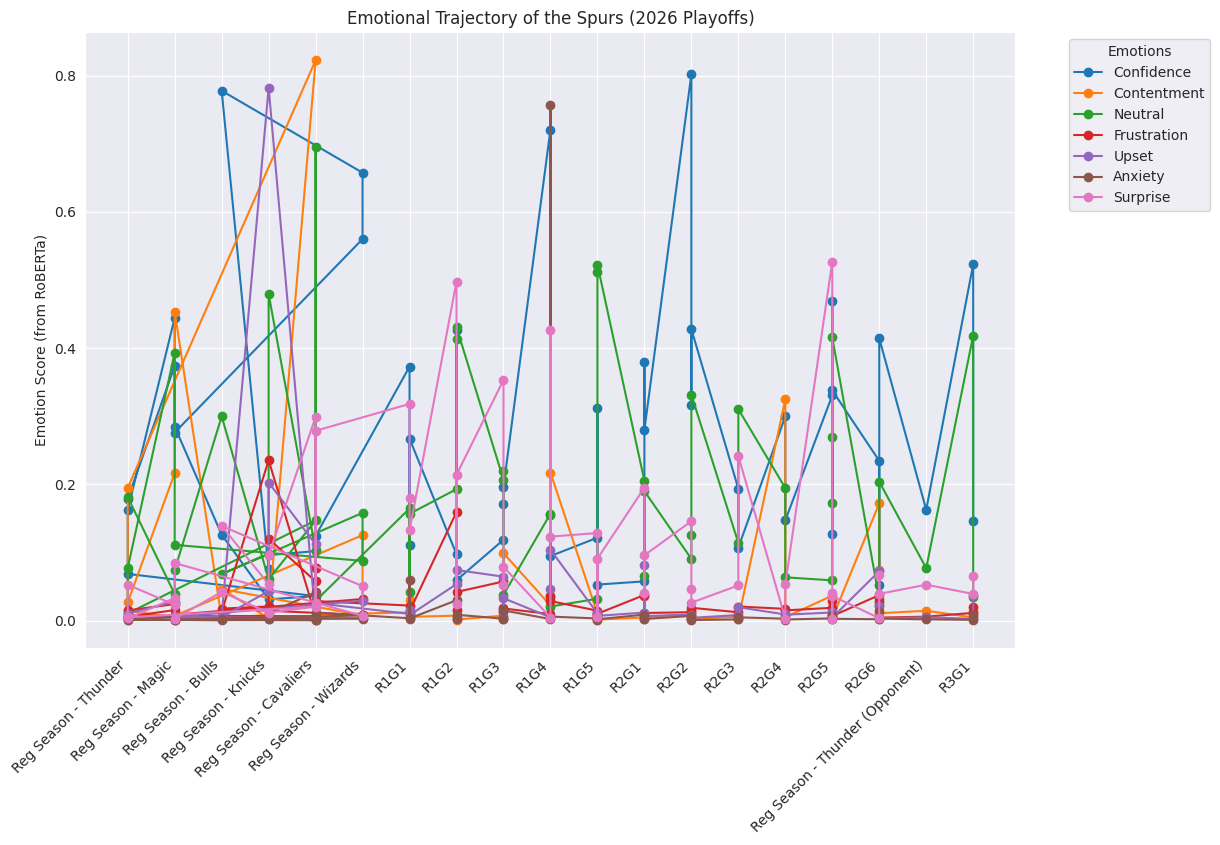
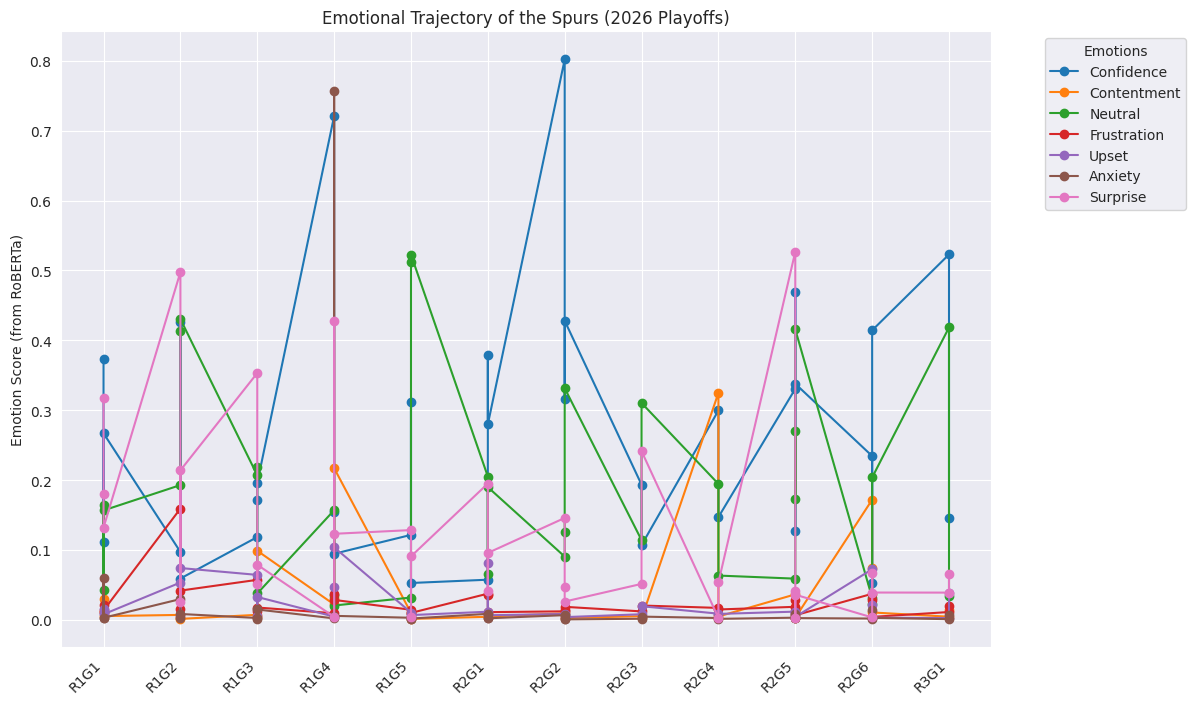
Updated predictions, main, images

diff --git a/main.py b/main.py
@@ -15,25 +15,57 @@ def main():
     logging.info("Starting the 2026 NBA Finals NLP Pipeline...")
     
     scored_csv_path = "./data/live_2026/scored_live_2026.csv"
-    historical_csv_path = "./data/historical/scored_historical.csv" # Ensure this path points to your historical data!
+    historical_csv_path = "./data/historical/scored_historical.csv"
+    manifest_path = "./data/2025-2026_playoff_vids.json"
     
     # ==========================================
-    # PHASES 1, 2 & 3: INGESTION, SCORING, VISUALS (MUTED)
+    # PHASE 1: DATA INGESTION
     # ==========================================
-    # (Kept muted for speed as requested)
+    logging.info("--- Phase 1: Data Ingestion (Live) ---")
+    with open(manifest_path, 'r') as json_file:
+        video_list = json.load(json_file)
+        
+    ingestor = TranscriptIngestor(data_dir="./data/live_2026/")
+    raw_df = ingestor.fetch_transcripts(video_list, save_filename="raw_live_2026.csv")
+    
+    if raw_df.empty:
+        logging.error("We didn't get any data! Stopping the pipeline.")
+        return
+        
+    # ==========================================
+    # PHASE 2: SENTIMENT ANALYSIS
+    # ==========================================
+    logging.info("--- Phase 2: Sentiment Analysis ---")
+    engine = SentimentEngine()
+    scored_df = engine.process_dataframe(raw_df)
+    scored_df.to_csv(scored_csv_path, index=False)
+    logging.info("Phase 2 Complete! Scored data saved.")
+    
+    # ==========================================
+    # PHASE 3: VISUALIZATIONS
+    # ==========================================
+    logging.info("--- Phase 3: Generating Live Visualizations ---")
+    live_scored_df = pd.read_csv(scored_csv_path)
+    visualizer = EmotionVisualizer(output_dir="./output/live_2026/")
+    teams = ["Spurs", "Thunder", "Knicks", "Cavaliers"]
+    
+    for team in teams:
+        visualizer.plot_time_series(live_scored_df, team_name=team)
+        
+    matchups = list(itertools.combinations(teams, 2))
+    for t1, t2 in matchups:
+        visualizer.plot_finals_comparison_bar(live_scored_df, t1, t2, f"{t1} vs {t2}")
+
+    logging.info("Phase 3 Complete! All visualization combinations saved.")
 
     # ==========================================
-    # PHASE 4: MATCHUP INFERENCE (ACTIVE)
+    # PHASE 4: MATCHUP INFERENCE
     # ==========================================
     logging.info("--- Phase 4: Matchup Inference ---")
     predictor = PlayoffPredictor(model_dir="./models/")
     
-    # 1. RETRAIN THE MODEL ON THE CORRECT HISTORICAL DATA TO FIX THE .PKL
     logging.info("Repairing the model by retraining on historical data...")
     predictor.train_model(historical_csv_path) 
-    
-    teams = ["Spurs", "Thunder", "Knicks", "Cavaliers"]
-    matchups = list(itertools.combinations(teams, 2))
     
     for t1, t2 in matchups:
         predictor.predict_matchup(t1, t2, scored_csv_path)
